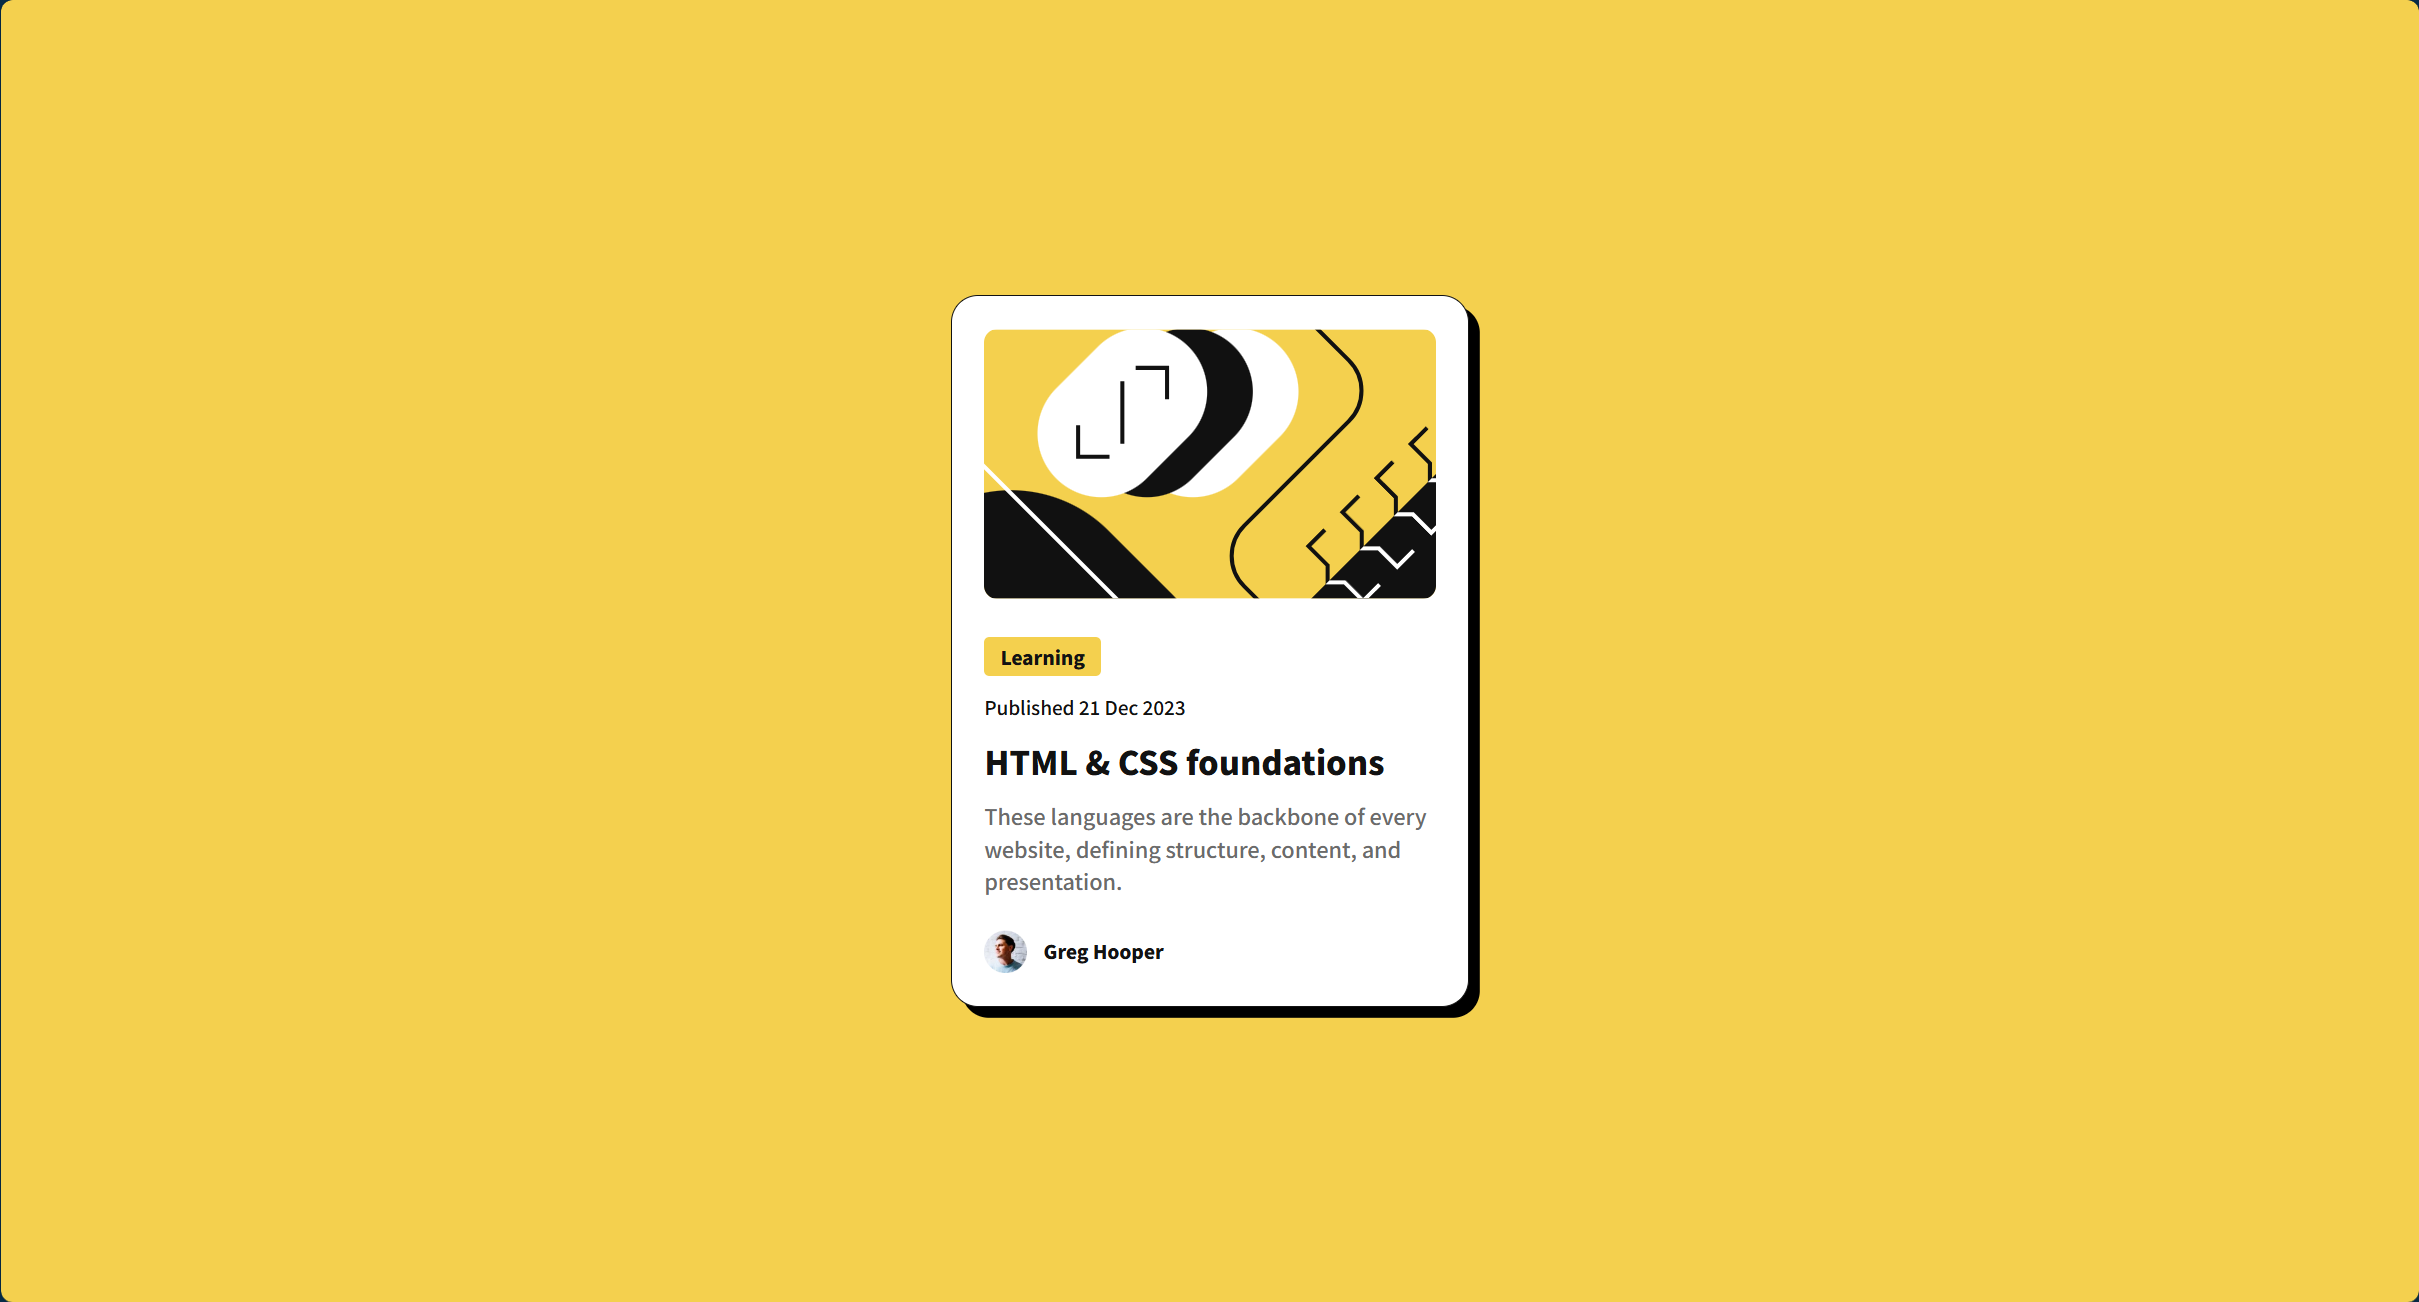
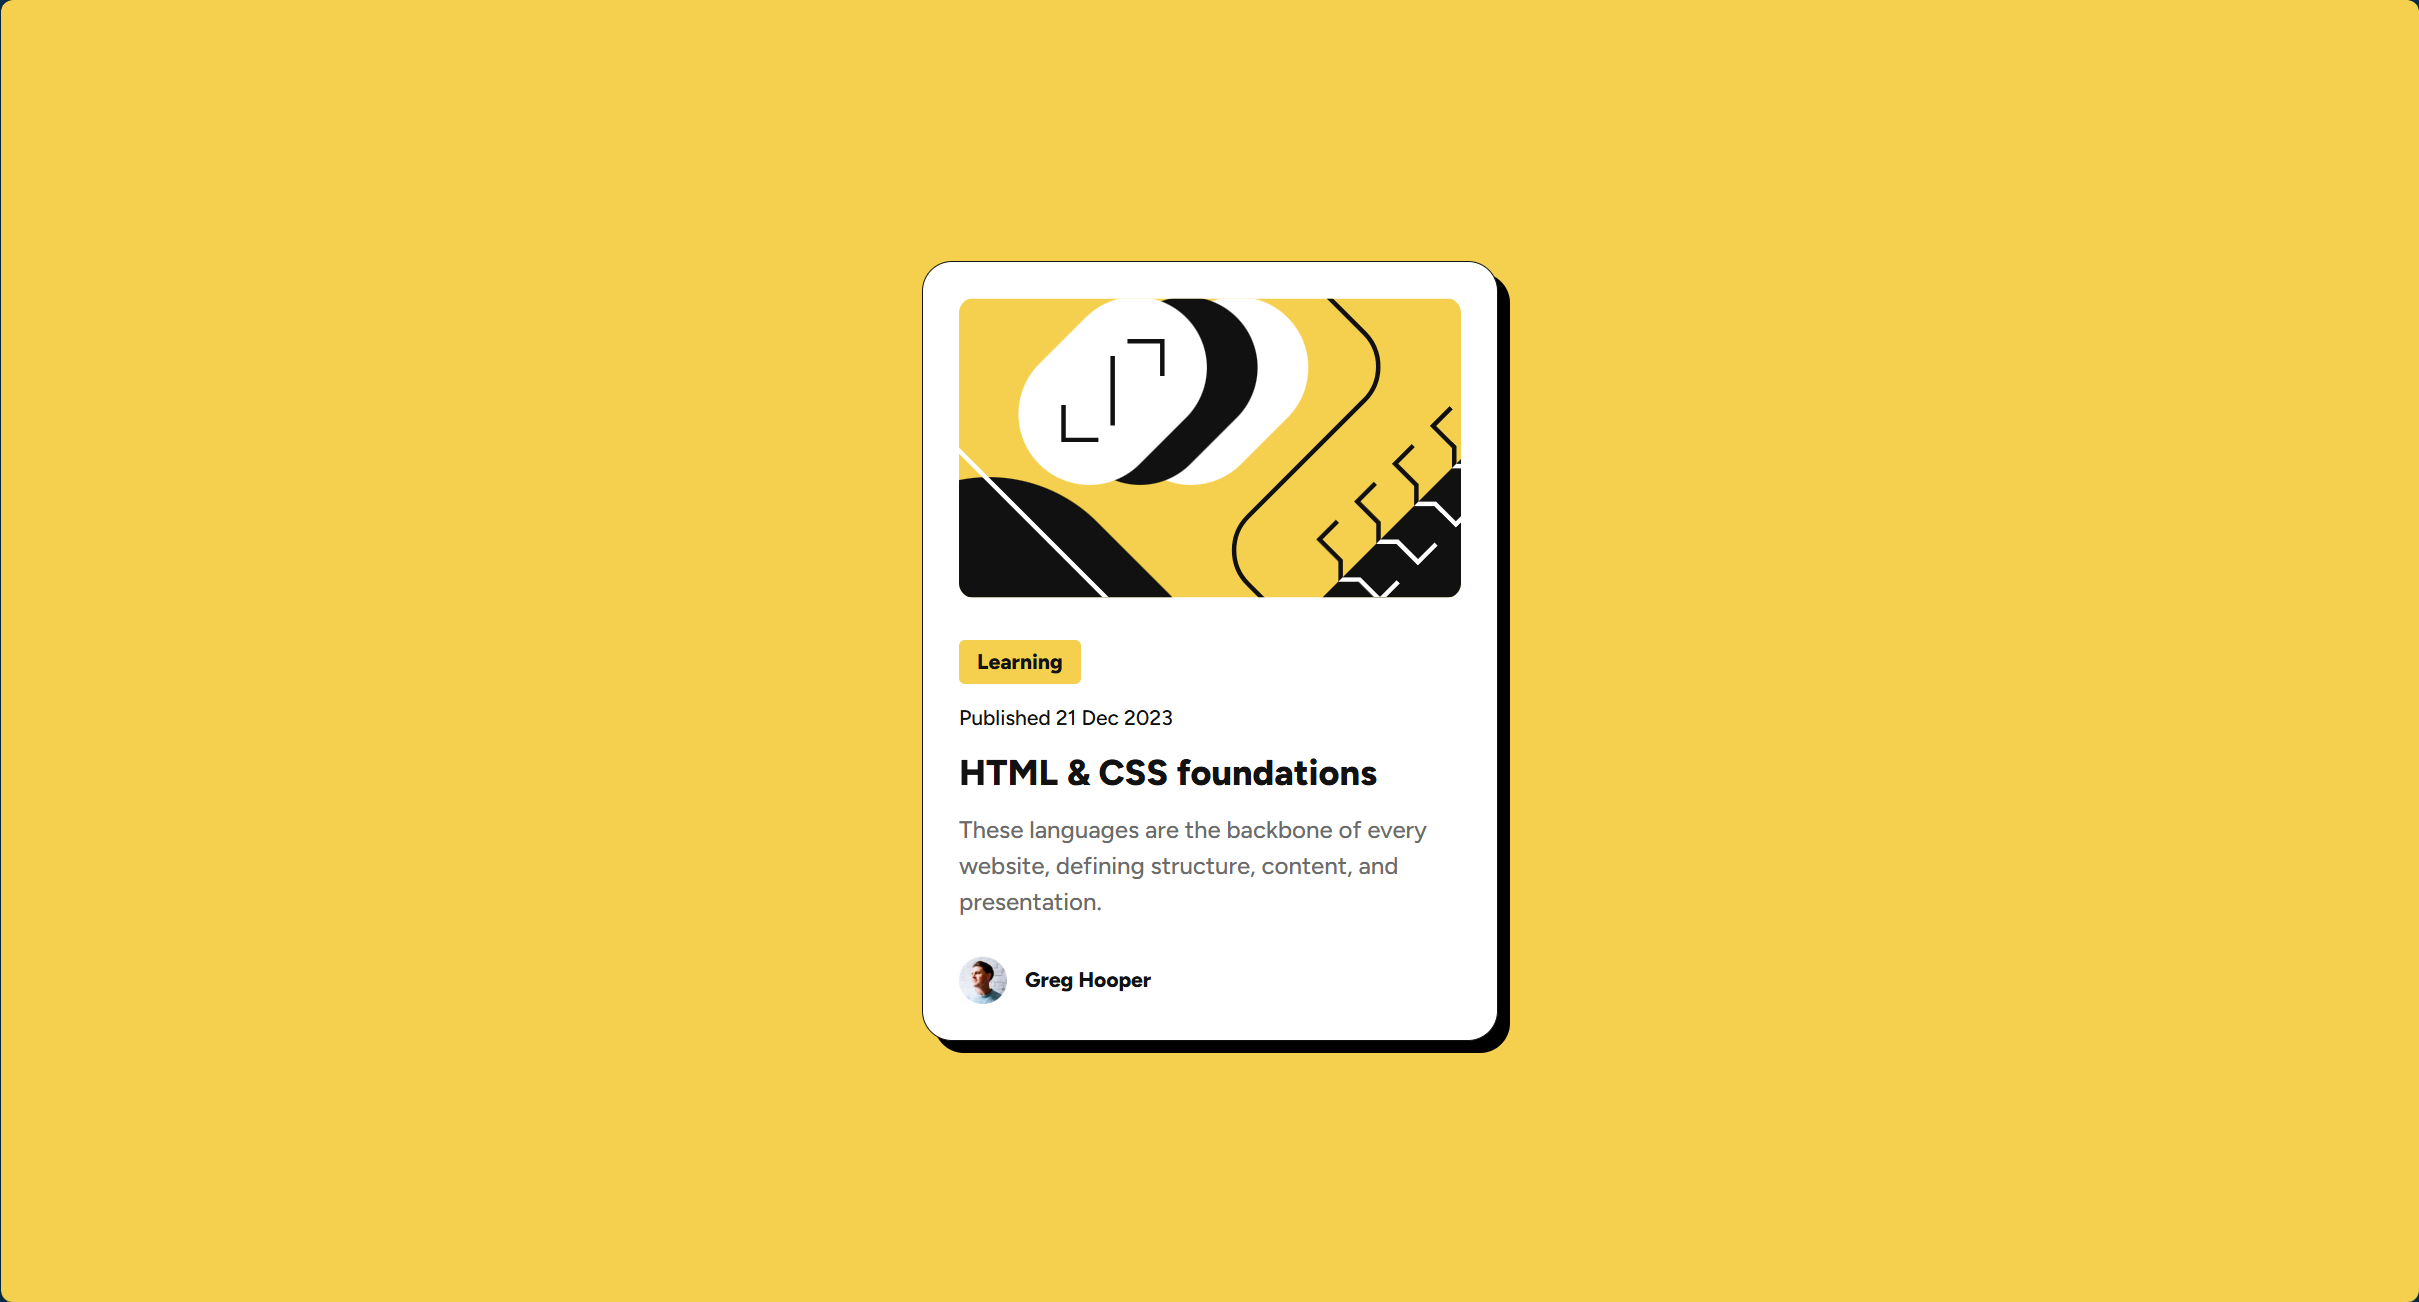
update

Changed region(s): [[0.3721, 0.1843, 0.6511, 0.8295]]

diff --git a/style.css b/style.css
@@ -5,6 +5,18 @@
   margin: 0;
   padding: 0;
 }
+@font-face {
+  font-family: 'Figtree';
+  src: url('./assets/fonts/static/Figtree-Medium.ttf') format('truetype');
+  font-weight: 500;
+  font-style: normal;
+}
+@font-face {
+  font-family: 'Figtree';
+  src: url('./assets/fonts/static/Figtree-ExtraBold.ttf') format('truetype');
+  font-weight: 800;
+  font-style: normal;
+}
 body {
   font-family: 'Figtree', sans-serif;
   background-color: hsl(47, 88%, 63%);

diff --git a/index.html b/index.html
@@ -2,8 +2,8 @@
 <html lang="en">
 <head>
   <meta charset="UTF-8">
-  <meta name="viewport" content="width=device-width, initial-scale=1.0"> <!-- displays site properly based on user's device -->
-
+  <meta name="viewport" content="width=device-width, initial-scale=1.0">
+  
   <title>Frontend Mentor | Blog preview card</title>
   <link rel="stylesheet" href="style.css">
 </head>
